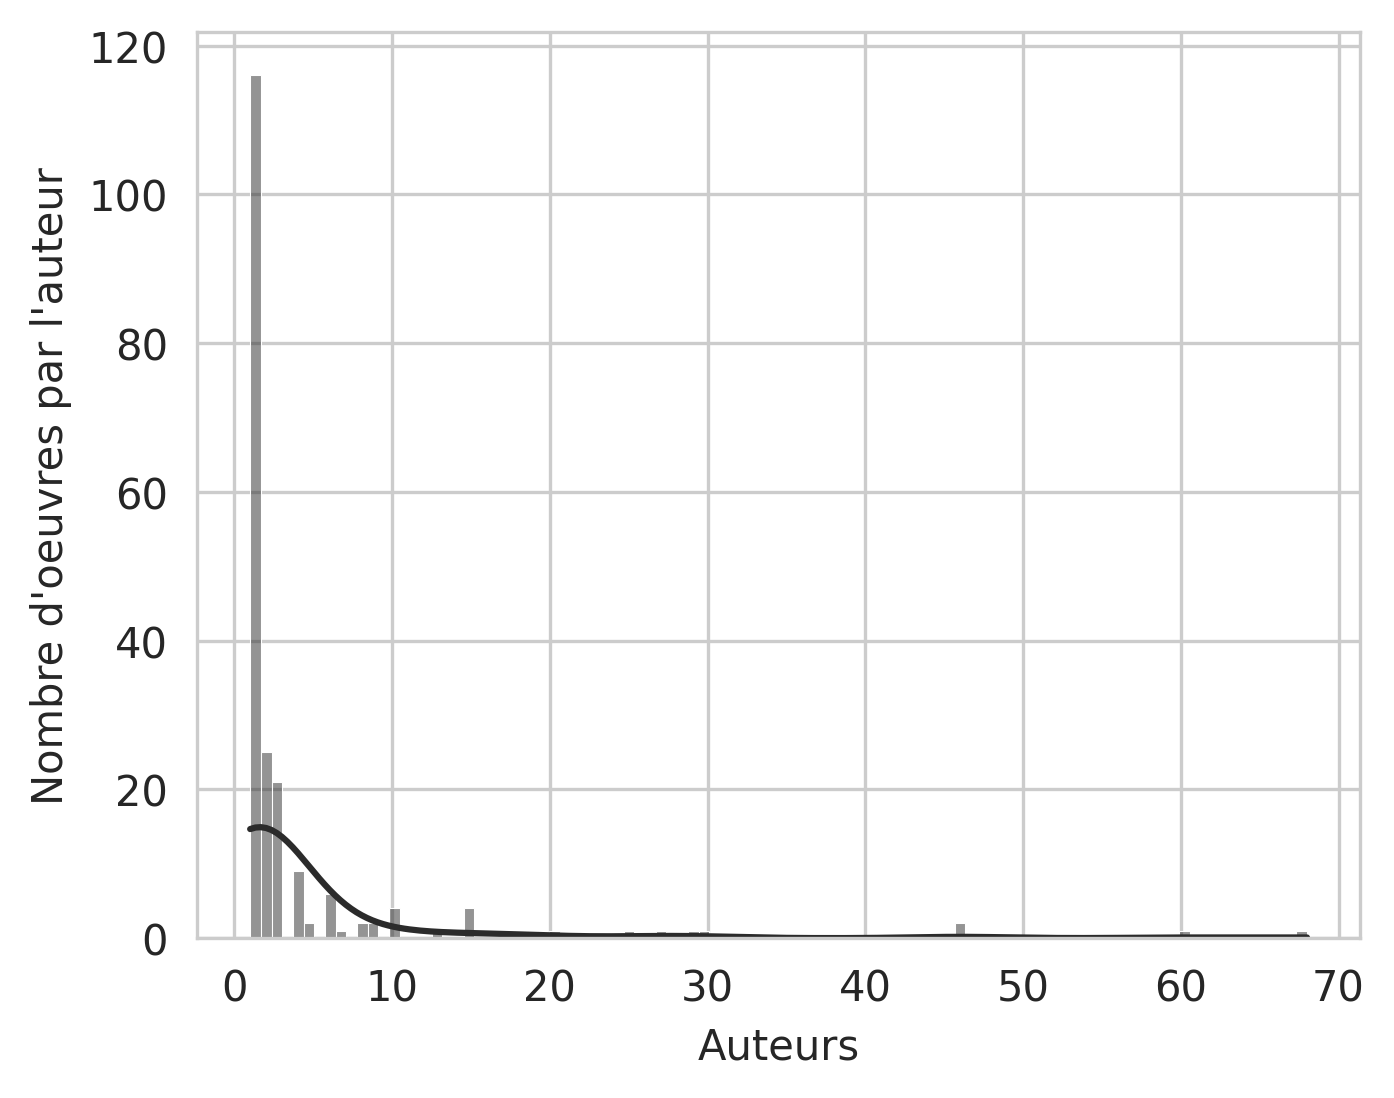
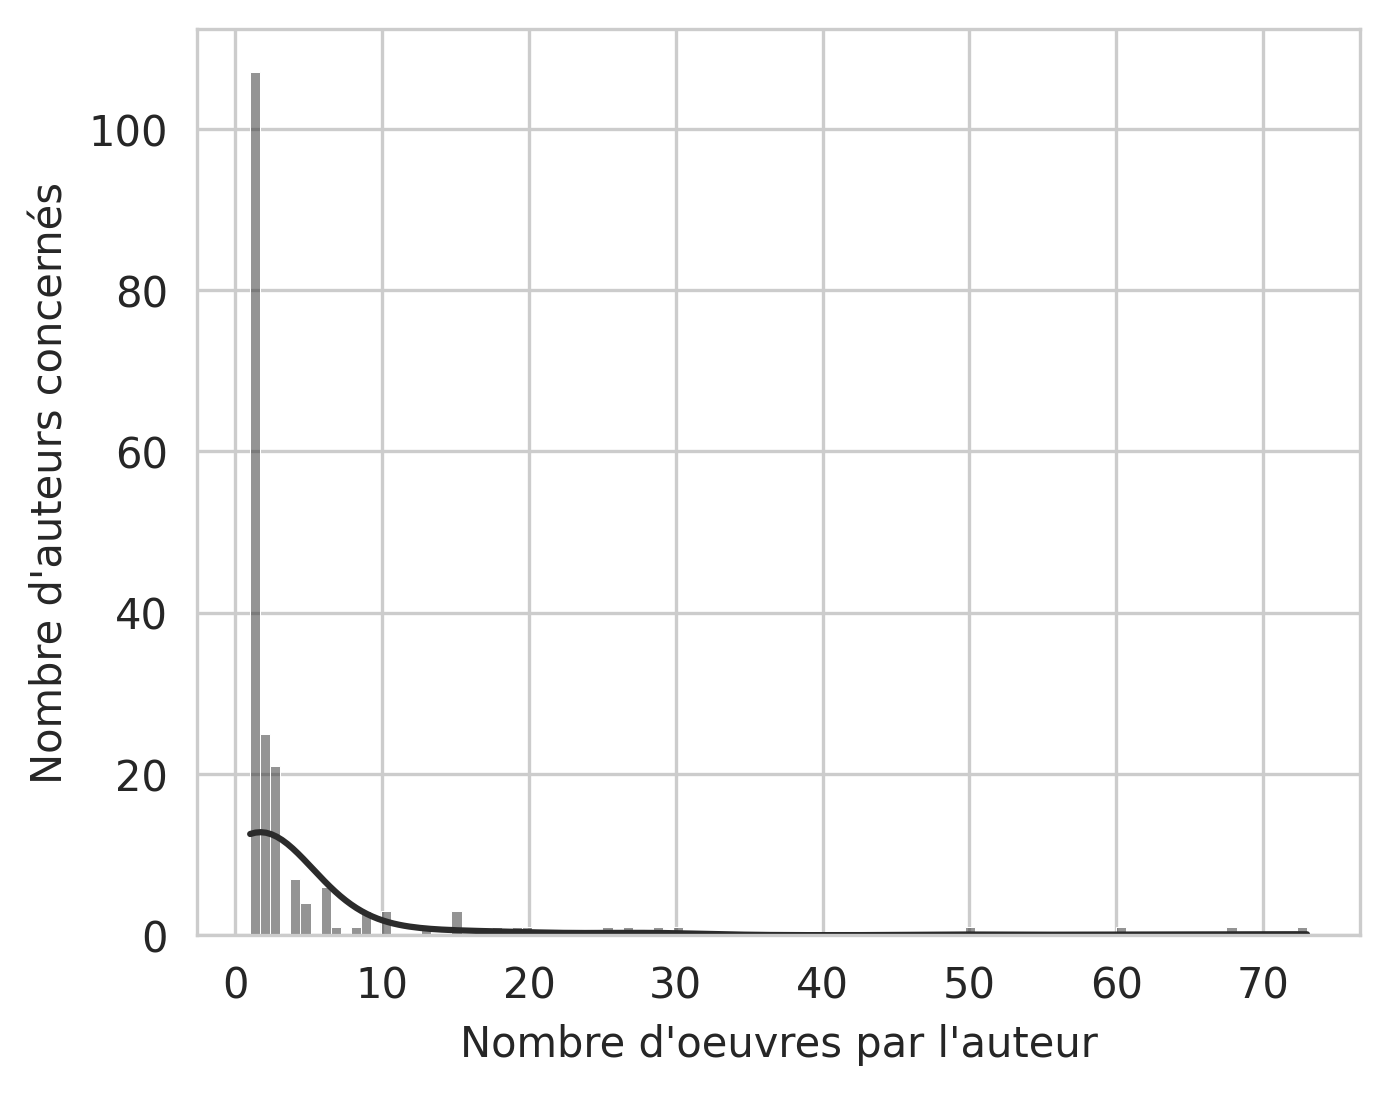
Réécriture de la partie description du meta-corpus

diff --git a/chap1_corpus.tex b/chap1_corpus.tex
@@ -505,53 +505,119 @@ Une partie du travail sur \textit{DigilibLT-Capitains} et la majeure partie de l
     %% Priapées
     %% Additional-Texts
     
-\subsubsection{Analyse de la diversité du corpus par période, auteur et genre}
+\subsubsection{Description du meta-corpus final}
 
-Le meta-corpus final est formé des six corpus \textit{open-source} et libres de droit mentionnés pour un total d'une vingtaine de millions de mots (\textit{cf.} table \ref{tab:chap1:corpora}). Certaines sources n'ont pas pu être trouvées en numérique: on note l'absence des \textit{Declamatio minores} de Quintilien du corpus, bien qu'elles soient quelques fois utilisées ou citées par le TLL ou Adams. Tout comme Perseus, les écrivains fragmentaires, dont les extraits sont normalement cités chez divers auteurs, sont ignorés par notre corpus. 
+Le meta-corpus final est formé des six corpus \textit{open-source} et libres de droit mentionnés pour un total d'une vingtaine de millions de mots (\textit{cf.} table \ref{tab:chap1:corpora}). Il est constitué de 204 auteurs ou regroupements d'oeuvres (par exemple, le \textit{Nouveau Testament} compte comme un regroupement de textes) pour 853 oeuvres. Tous les textes cités par le TLL ou par Adams n'ont pas pu être ajoutés au corpus: par exemple, on note l'absence des \textit{Declamatio minores} de Quintilien, des commentaires de Donat ou de textes du \textit{Corpus Grammaticorum Latinorum}. Nous avons suivi les principes de production de corpus originaux de Perseus, à savoir de ne pas inclure les auteurs fragmentaires: majoritairement collectés via des citations chez d'autres auteurs, leur introduction pourrait introduire du bruit. 
 
-Chaque corpus concerne une période qui lui est propre (\textit{cf.} figure \ref{fig:chap1:mots-par-corpus}): \textit{Canonical Latin Literature} de \textit{Perseus} concerne majoritairement la période classique en couvrant largement de -300 à 150 de notre ère. Il connaît une légère production supplémentaire aux alentours du IVe siècle avec les oeuvres de Jérôme et d'Ausone, inclues dans le corpus pour des raisons pédagogiques. Quant à lui, le CSEL couvre bien avec les pères de l'Église la période de 300 à 950. Le corpus \textit{DigilibLT} est constitué d'oeuvres majoritairement de la fin du IIIe siècle au Ve. Au contraire des autres corpus, \textit{Additional Texts} ne présente pas d'homogénéité dans sa production: il est le fruit d'un \enquote{remplissage des manques} et génère donc des pics à différentes périodes. Il connaît deux pics clairement marqués: le premier est formé de la rédaction de la \textit{Vulgate} et des commentaires de Servius pendant le IVe siècle; au Ve siècle, le second pic est constitué d'un seul texte massif, le \textit{Code Justinien}.
+En dehors des manques particuliers à la collecte ou à l'histoire des corpus réutilisés, notre corpus présente des caractéristiques assez attendues d'un corpus de sources anciennes et littéraires. Il est constitué majoritairement d'auteurs dont on ne possède qu'une seule oeuvre (près de 120 auteurs sont dans ce cas) avec quelques auteurs extrêmement prolifiques, comme Augustin et Cicéron avec une soixantaine d'oeuvres (\textit{cf.} \ref{fig:chap1:oeuvres-par-auteur}). Les textes sont principalement assez courts: les trois quarts font moins de 20~000 mots (\textit{cf.} table \ref{tab:chap1:mots-par-textes}). Quatre-vingt textes font moins de mille mots (10\% du corpus) tandis que quanrante neuf en font plus de cent mille. Les textes les plus grands atteignent le million de mots (\textit{cf.} \ref{fig:chap1:mots-par-texte}).
+
+Chaque corpus du meta-corpus concerne une période qui lui est propre (\textit{cf.} figure \ref{fig:chap1:mots-par-corpus}): \textit{Canonical Latin Literature} de \textit{Perseus} propose des oeuvres majoritairement issues de la période classique, de -254 à 150 de notre ère. Il connaît une légère production supplémentaire aux alentours du IVe siècle avec les oeuvres de Jérôme et d'Ausone, inclues par l'équipe du projet pour des raisons pédagogiques. Le deuxième grand corpus, le CSEL, couvre la période de 300 à 950 avec les pères de l'Église. Le corpus \textit{DigilibLT} est constitué d'oeuvres écrites principalement entre la fin du IIIe siècle au Ve. Au contraire des autres corpus, \textit{Additional Texts} ne présente pas d'homogénéité dans sa production: il est le fruit d'un \enquote{remplissage des manques} et génère donc des pics à différentes périodes. Il connaît deux périodes sur-représentées: le premier est formé de la rédaction de la \textit{Vulgate} et des commentaires de Servius pendant le IVe siècle; au Ve siècle, le second pic est constitué d'un seul texte massif, le \textit{Code Justinien}.
 
 \afterpage{%
 \begin{table}
-    \centering
-    \begin{tabular}{lr}
-    \toprule
-    Corpus                         & Version utilisée \\ \midrule
-    PerseusDL/canonical-latinLit & 0.0.843 \\
-    OpenGreekAndLatin/csel-dev   & 1.0.223 \\
-    lascivaroma/priapeia         & 1.1.18  \\
-    lascivaroma/additional-texts & 1.0.193 \\
-    lascivaroma/digiliblt        & 0.0.64  \\
-    OpenGreekAndLatin/Latin      & v1.11.0 \\ \bottomrule
-    \end{tabular}
-    \caption{Corpus utilisés pour la formation du meta-corpus de sources.}
-    \label{tab:chap1:corpora}
+\begin{minipage}{.4\linewidth}%
+        \centering
+        \resizebox{\textwidth}{!}{%
+        \begin{tabular}{lr}%
+            \toprule
+            Corpus                         & Version \\ \midrule
+            PerseusDL/canonical-latinLit & 0.0.843 \\
+            OpenGreekAndLatin/csel-dev   & 1.0.223 \\
+            lascivaroma/priapeia         & 1.1.18  \\
+            lascivaroma/additional-texts & 1.0.193 \\
+            lascivaroma/digiliblt        & 0.0.64  \\
+            OpenGreekAndLatin/Latin      & v1.11.0 \\ \bottomrule
+        \end{tabular}%
+        }
+        \caption{Corpus utilisés pour la formation du meta-corpus de sources.}
+        \label{tab:chap1:corpora}
+\end{minipage}%
+\hfill
+\begin{minipage}{.56\linewidth}%
+        \centering
+        \resizebox{\textwidth}{!}{%
+        \begin{tabular}{l|rr|rr}
+            \toprule
+                      Auteur &      Mots &  Rang      &  Oeuvres &  Rang         \\
+            \midrule
+                    Augustin & 2~566~421 &          1 &       68 &             2 \\
+                   Justinien & 1~430~321 &          2 &        2 &            62 \\
+                     Cicéron & 1~389~163 &          3 &       60 &             3 \\
+                      Jérôme &   879~855 &          4 &        9 &            19 \\
+                     Servius &   717~622 &          5 &        4 &            34 \\
+                    Ambroise &   685~483 &          6 &       19 &            10 \\
+                  Tertullien &   678~635 &          7 &       50 &             4 \\
+                   Tite-Live &   614~940 &          8 &        1 &            87 \\
+                     Vulgate &   603~091 &          9 &       73 &             1 \\
+                     Sénèque &   525~489 &         10 &       27 &             7 \\ 
+                            \multicolumn{5}{c}{...}                \\
+                      Plaute &   233~258 &         23 &       20 &             9 \\
+            Histoire Auguste &   128~128 &         35 &       30 &             5 \\
+                      Ausone &    68~418 &         67 &       29 &             6 \\
+              Cornélis Népos &    33~604 &         89 &       25 &             8 \\
+            \bottomrule
+        \end{tabular}%
+        }
+        \caption{Auteurs ou groupes de textes les plus importants en oeuvres et en mots, classés par le nombre de mots.}
+        \label{tab:chap1:rang-auteurs}
+\end{minipage}
 \end{table}
 \begin{figure}
     \centering
-    \includegraphics{figures/chap1/part2/motsPaCorpus.png}
+    \includegraphics[width=.9\linewidth]{figures/chap1/part2/motsPaCorpus.png}
     \caption{Distribution du nombre de mots par corpus}
     \label{fig:chap1:mots-par-corpus}
 \end{figure}
 \clearpage
 }
 
-Notre meta-corpus contient par ailleurs deux grandes périodes de rédaction, correspondant à deux phénomènes bien identifiés par les historiens de la littérature(\textit{cf.} \ref{fig:chap1:accum-mot}). On a d'une part la littérature dite classique, allant de la fin de la république au règne des Antonins à la fin du Ier siècle de notre ère: elle est constituée -- entre autres -- du surproducteur Cicéron, des philosophes Sénèque et Lucrèce, des poètes augustéens et de l'apogée du genre élégiaque, des épopées latines les plus connues, et disparaît avec le \enquote{meilleurs des poètes de son temps}, Martial. Ces siècles ont été consacrés par l'enseignement du latin, du thème, césarien et cicéronien, à l'apogée du style virgilien en passant par les historiens \enquote{acceptables}. Il représente un peu moins de la moitié du corpus avec près de dix millions de mots. La deuxième période de production massive est ce que Fredouille et Zhenacker à la fois \enquote{l'âge d'or de la patristique}: avec la reconnaissance officielle du christianisme, on assiste à la rédaction des oeuvres d'Hilaire, Ambroise, Augustin et de Jérôme, dont la production -- partiellement représentée dans notre corpus -- correspond à plus de 10\% du meta-corpus complet. D'autres auteurs, aux quantités minimes face aux quatre Pères, n'en sont pas pour autant peu important pour notre recherche: ainsi, le IVe siècle est aussi le siècle d'Ausone, et donc du \textit{Centon Nuptial}, réarrangement littéraire des vers de Virgile afin de raconter une scène de mariage et la partie érotique qui la suit.
+Le meta-corpus contient par ailleurs deux grandes périodes de rédaction, correspondant à deux phénomènes bien identifiés par les historiens de la littérature(\textit{cf.} \ref{fig:chap1:accum-mot}). On a d'une part la littérature dite classique, allant de la fin de la république au règne des Antonins à la fin du Ier siècle de notre ère: elle est constituée -- entre autres -- du surproducteur Cicéron, des philosophes Sénèque et Lucrèce, des poètes augustéens et de l'apogée du genre élégiaque, des épopées latines les plus connues, et se termine avec les écrivains Martial, Juvénal et Pline le Jeune. Ces siècles ont été consacrés par l'enseignement du latin à travers le thème, dont la langue est calquée sur les styles césariens et cicéroniens, et l'études des grands classiques comme l'\textit{Énéide} de Virgile et les \textit{Annales} de Tacite. Cette période représente un peu moins de la moitié du corpus avec près de dix millions de mots. 
 
-Il peut être particulièrement compliqué de quantifier les manques du corpus. Si l'on en croit le nombre de textes convertis du DigilibLT, il y aurait au moins autant de textes tardifs hors-patristique absent que présents de notre corpus. Pour la patristique, les chiffres du \textit{Corpus Corporum} sont énormes: quatre-vingt huit millions de mots pour la patrologie latine, qui s'étend plus loin que notre corpus, mais près de deux millions et demi de mots pour Jérôme à lui-seul. Pour cette partie du corpus, notre conversion de textes ayant été faite en fonction des besoins de la collecte d'exemples cités par Adams, peu de textes en dehors des CSEL ont été convertis. 
+La deuxième période de production massive est ce que Fredouille et Zhenacker appelle \enquote{l'âge d'or de la patristique}\footcite{fredouille}: avec la reconnaissance officielle du christianisme, on assiste à la rédaction des oeuvres d'Hilaire, Ambroise, Augustin et de Jérôme, dont la production -- partiellement représentée dans notre corpus -- correspond à 20,7\% du meta-corpus complet en nombre de mots et 12,5\% en nombre de textes. D'autres auteurs, aux quantités minuscules en regard de celles des quatre Pères, restent majeurs pour notre recherche: ainsi, le IVe siècle est aussi le siècle d'Ausone, et donc du \textit{Centon Nuptial}, ré-arrangement littéraire des vers de Virgile visant à raconter un mariage et la première nuit des mariés. C'est aussi le siècle des grammairiens et commentaires: on y retrouve l'oeuvre de Donat, de Servius et, suivant les datations, des \textit{Adnotationes super Lucanum}. Les commentaires peuvent avoir une grande importance pour la compréhension des textes anciens ou du moins de leur réception, et, en termes d'approche quantitative, permettent d'ajouter du contexte aux passages originaux.
 
-Pour la période classique, nous bénéficions du travail du \textit{Perseus Catalog} et du PHI. À partir des données de ce dernier, le catalogue de Perseus, dont la vocation est de répertorié les éditions tombées dans le domaine publiques d'oeuvres disponibles numériquement, y compris uniquement sous forme de PDF ou d'images, propose pour une sélection de textes un décompte supposé du nombre de mots. Ce décompte, visible en figure \ref{fig:chap1:accum-mot-diff-perseus-catalog}, permet d'estimer un écart de quelques centaines de milliers de mots au plus sur la période classique. Mais il est à interpréter avec précaution: en étudiant les auteurs dont les oeuvres sont sous-représentées (\textit{cf.} figure \ref{fig:chap1:ecarts-auteurs}), nous avons trouvé qu'Ovide aurait près de deux cent mille mots de moins dans notre meta-corpus que chez le PHI. Or, Ovide n'est pas un auteur d'un très grand nombre d'oeuvres ou de recueil, et un tel manque indiquerait l'oubli d'un classique \textit{a priori}. En cherchant les données manquantes, il s'est avéré que le texte produisant la majorité de cet écart n'est autre que \textit{l'Epicedion Drusi}, un poème de 474 vers dont le nombre de mots est évalué -- faussement -- à plus de deux cent vingt mille mots\footcite{clerice_catalog_dataphi0959phi015_2021}. Il reste probable que pour Cicéron (dont les oeuvres complètes ne sont pas toutes présentes sur Perseus), Sénèque (dont quelques ouvrages manquent) et Quintilien (dont il nous manque au moins les \textit{Declamatio Minores}) soient véritablement parcellaires dans le meta-corpus.
+Pour ce qui est des manques, ils peuvent être particulièrement compliqués à quantifier. Si l'on en croit le nombre de textes convertis du DigilibLT, il y aurait au moins autant de textes tardifs hors-patristique absents que présents de notre corpus. Pour la patristique, le \textit{Corpus Corporum} fournit une taille pour chaque corpus: la patrologie latine serait formée de quatre-vingt huit millions de mots. Ce chiffre doit être pris comme un ordre de grandeur, car les documents XML de la PL du projets fourmillent de citations en plein texte du type \enquote{(Joan. XV, 17).}, représentant un bruit important pour le décompte de mots. Il reste qu'avec ce nombre, plus de quatre fois la taille de notre corpus, il est certain que nous avons des manques: Jérôme y est représenté par 2,5 millions de mots pour 105 oeuvres (en ne comptant que les oeuvres attribuées assurément par le projet), tandis que nous culminons à 880~000 mots pour 9 oeuvres (\textit{cf.} \ref{tab:chap1:rang-auteurs}). La conversion et collection des textes ayant été guidées par les citations du TLL et d'Adams, ces auteurs sont sous-représentés.
 
-Enfin, en dehors des manques particuliers à la collecte ou à l'histoire des corpus réutilisés, notre corpus présente des caractéristiques assez attendues d'un corpus de sources anciennes et littéraires. Il est constitué par exemple d'auteurs dont on ne connaît qu'une seule oeuvre dans le meta-corpus (près de 120 auteurs sont dans ce cas) avec quelques auteurs extrêmement prolifiques, comme Cicéron avec une quarantaine d'oeuvres (\textit{cf.} \ref{fig:chap1:oeuvres-par-auteur}). Les textes sont principalement moyennement longs (dix mille mots, \textit{cf.} \ref{fig:chap1:mots-par-texte}) et atteignent quelques fois des extrêmes intéressants: certains textes ne font pas beaucoup plus que cent mots pendant que d'autres atteignent presque le million de mots.
 
-Pour conclure, nous faisons face à un meta-corpus varié (204 auteurs ou regroupements d'oeuvres, 853 oeuvres) dont le caractère incomplet est dû en partie aux critères initiaux, à savoir la possibilité d'exploiter mécaniquement les ressources textuelles via une explicitation de leurs structures. S'il devait être compléter, les zones suivantes devraient être priorisées:
+Pour la période classique, nous bénéficions du travail du \textit{Perseus Catalog}\footcite{babeu2019perseus} et du PHI. Projet enfant de \textit{Perseus}, le catalogue, dirigé par Alison Babeu, a pour vocation de répertorier les auteurs, oeuvres, éditions et traductions des auteurs antiques, et tout particulièrement celles tombées dans le domaine publiques. Ce catalogage s'accompagne souvent de liens vers des textes disponibles sous formes de numérisations PDF sur les plate-formes comme \textit{Google Book}, \textit{Internet Archive} ou \textit{Hathi Trust}. Il est complété du nombre de mots quand l'oeuvre est disponible sur le PHI. Ce décompte, visible en figure \ref{fig:chap1:accum-mot-diff-perseus-catalog}, permet d'estimer qu'il manque -- au plus -- quelques centaines de milliers de mots au plus sur la période classique. Mais tout comme les chiffres de la PL, il est à interpréter avec précaution: en étudiant les auteurs dont les oeuvres sont sous-représentées (\textit{cf.} figure \ref{fig:chap1:ecarts-auteurs}), nous avons trouvé qu'Ovide aurait près de deux cent mille mots de moins dans notre meta-corpus que chez le PHI. Or, Ovide n'est pas auteur d'un très grand nombre d'oeuvres ou de recueil, et un tel manque indiquerait donc l'oubli d'un classique qui aurait été ignoré par Perseus, dont le projet même était de mettre à disposition les textes couramment étudiés. En cherchant les données manquantes, il s'est avéré que le texte produisant la majorité de cet écart est une oeuvre mineure, \textit{l'Epicedion Drusi}, un poème de 474 vers dont le nombre de mots est évalué -- faussement -- à plus de deux cent vingt mille mots\footcite{clerice_catalog_dataphi0959phi015_2021}. Il reste probable que pour Cicéron (dont les oeuvres complètes ne sont pas toutes présentes sur Perseus), Sénèque (dont quelques ouvrages manquent) et Quintilien (dont il nous manque au moins les \textit{Declamatio Minores}) soient véritablement parcellaires dans le meta-corpus.
+
+Pour conclure, nous faisons face à un meta-corpus varié dont le caractère incomplet est dû en partie aux critères initiaux, à savoir la possibilité d'exploiter mécaniquement les ressources textuelles via une explicitation de leurs structures. S'il devait être compléter, les zones suivantes devraient être priorisées:
 \begin{itemize}
-    \item la conversion complète des oeuvres du DigilibLT;
+    \item la conversion complète des oeuvres du \textit{DigilibLT};
     \item la conversion des textes de la patrologie latines dont les auteurs précèdent la mort d'Isidore de Séville;
-    \item la conversion et l'obtention des textes des grammairiens latins, dont le corpus n'a pas pu être obtenu à temps, soit à travers le Corpus Grammaticorum Latinorum, dont les sources sont réutilisées par le Corpus Corporum, soit à travers le projet HyperDonat;
-    \item la création d'éditions \enquote{fac-similaires} simples, à la Perseus, pour les textes des auteurs classiques manquants, au premier titre desquels figurent Cicéron et Quintilien.
+    \item la conversion et l'obtention des textes des grammairiens latins, dont le corpus n'a pas pu être obtenu à temps, soit à travers le \textit{Corpus Grammaticorum Latinorum}, dont les sources sont réutilisées par le C\textit{orpus Corporum}, soit à travers le projet \textit{HyperDonat};
+    \item la création d'éditions \enquote{fac-similaires} simples, à la \textit{Perseus}, pour les textes des auteurs classiques manquants, au premier titre desquels figurent Cicéron et Quintilien.
 \end{itemize}
 Ces recommandations sont par ailleurs dépendantes de l'évolution des techniques de lemmatisation, dont l'adaptation aux textes documentaires et épigraphiques nous pousserait à recommander d'incorporer, surtout pour notre thématique, les inscriptions et graffitis, dont ceux de Pompei.
+
+
+\afterpage{%
+\begin{figure}
+    \centering
+    \includegraphics[width=.8\linewidth]{figures/chap1/part2/motsParTexte.png}
+    \caption{Distribution des tailles de textes (en nombre de mots).}
+    \label{fig:chap1:mots-par-texte}
+\end{figure}
+\begin{table}[]
+    \centering
+    \small
+    \begin{tabular}{lrrrrrrrr}
+    \toprule
+    {} &  Oeuvres &          Moyenne &           std &    min &     25\% &     50\% &      75\% &        max \\
+    \midrule
+    Mots &  853 &  25003 &  59386 &  126 &  3~188 &  8~697 &  20~639 &  1~036~035 \\
+    \bottomrule
+    \end{tabular}
+    \caption{Détails sur la répartition des tailles de textes}
+    \label{tab:chap1:mots-par-textes}
+\end{table}
+\begin{figure}
+    \centering
+    \includegraphics[height=8cm]{figures/chap1/part2/oeuvresParAuteur.png}
+    \caption{Distribution du nombre d'oeuvres par auteurs. Les chiffres sont partiellement faussés par la segmentation de la bible en livres, produisant une oeuvre par livre.}
+    \label{fig:chap1:oeuvres-par-auteur}
+\end{figure}
+\clearpage
+}
 
 \afterpage{%
 \begin{sidewaysfigure}%
@@ -579,29 +645,12 @@ Ces recommandations sont par ailleurs dépendantes de l'évolution des technique
     \hfill%
     \begin{subfigure}{0.45\hsize}
         \centering
-        \includegraphics[width=\linewidth]{figures/chap1/part2/ecartsAuteurs.png}
+        \includegraphics[width=.8\linewidth]{figures/chap1/part2/ecartsAuteurs.png}
         \caption{Écart supérieurs à 25~000 mots en défaveur de notre corpus en fonction du décompte de mots du catalogue de Perseus.}
         \label{fig:chap1:ecarts-auteurs}
     \end{subfigure}%
     \caption{Évolution de la masse du corpus. La date de composition utilisée est celle de la date de naissance présumée de l'auteur.}
 \end{sidewaysfigure}%
-\clearpage
-}
-
-\afterpage{%
-\begin{figure}
-    \centering
-    \includegraphics[height=8cm]{figures/chap1/part2/motsParTexte.png}
-    \caption{Distribution des tailles de textes (en nombre de mots).}
-    \label{fig:chap1:mots-par-texte}
-\end{figure}
-\vfill
-\begin{figure}
-    \centering
-    \includegraphics[height=8cm]{figures/chap1/part2/oeuvresParAuteur.png}
-    \caption{Distribution du nombre d'oeuvres par auteurs. Les chiffres sont partiellement faussés par la segmentation de la bible en livres, produisant une oeuvre par livre.}
-    \label{fig:chap1:oeuvres-par-auteur}
-\end{figure}
 \clearpage
 }
 % Le corpus final, une fois aggloméré
